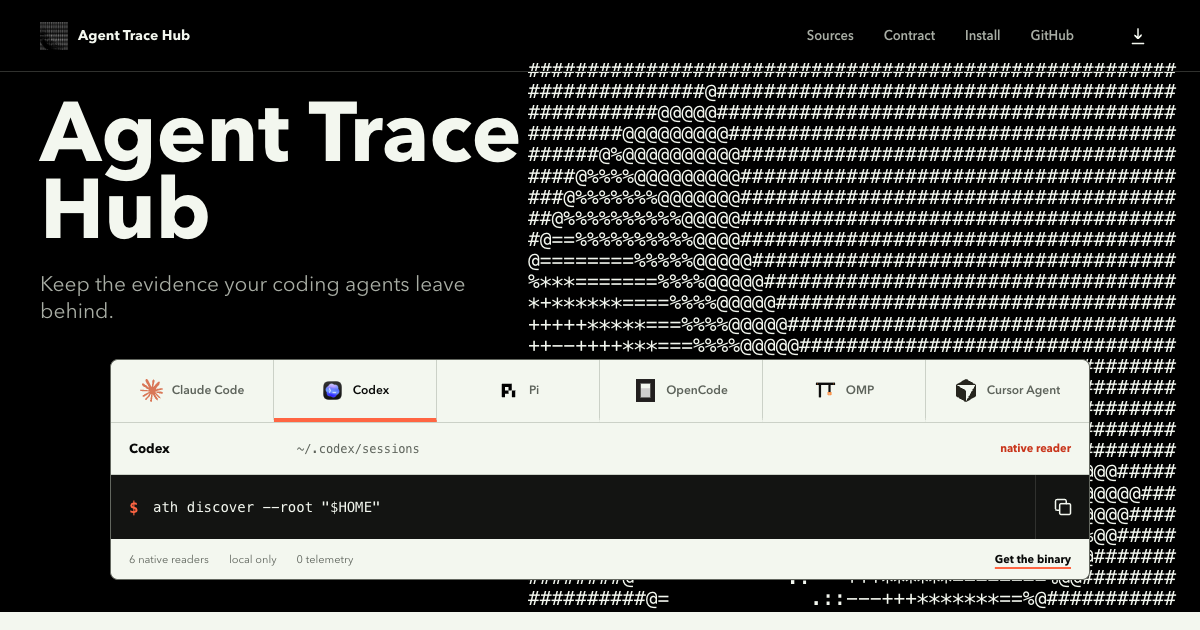
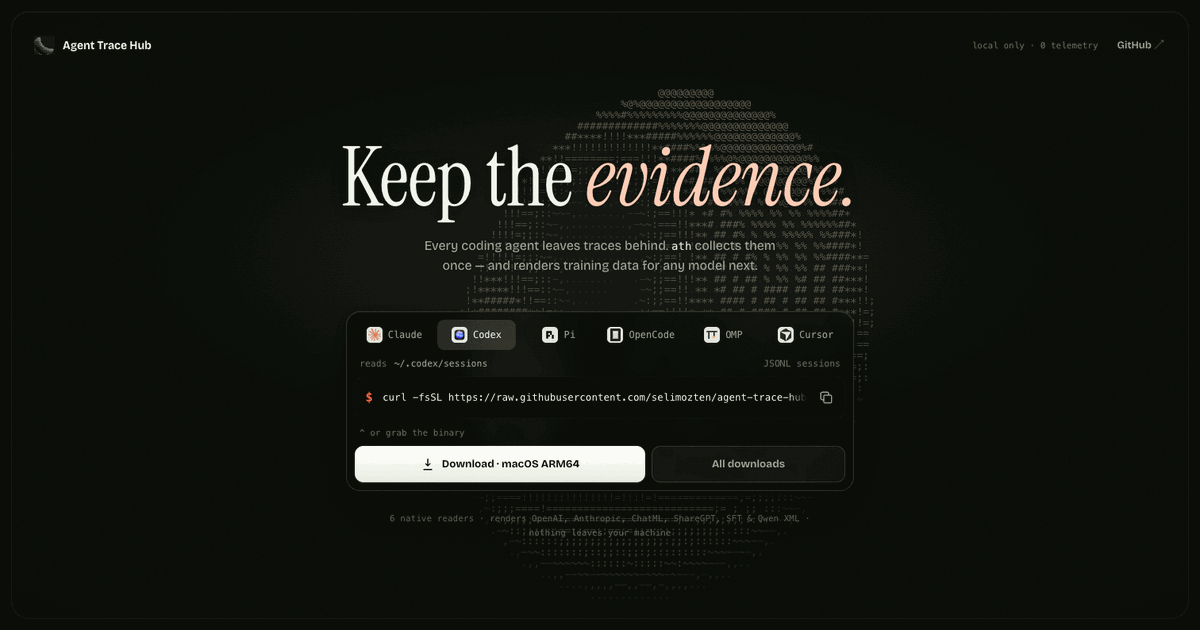
Align the agent tabs and refresh the brand assets
The source tabs become a six-column grid so every agent spans the
card edge to edge, with "Claude Code" shortened to fit its column
(full name kept for assistive tech).

The social card is recaptured from the live hero at 1200x630, and
the favicon is re-rendered from the orb art onto a dark rounded
tile so it reads on any tab bar; the old orb PNG is retired.

Claude-Session: https://claude.ai/code/session_01Pf822ZHoT31TSLVDinBH7p

diff --git a/site/styles.css b/site/styles.css
@@ -298,23 +298,31 @@ pre {
 }
 
 .source-tabs {
-  display: flex;
-  flex-wrap: wrap;
-  gap: 2px;
+  display: grid;
+  grid-template-columns: repeat(6, minmax(0, 1fr));
+  gap: 4px;
   padding-bottom: 8px;
 }
 
 .source-tabs button {
   display: inline-flex;
+  min-width: 0;
   min-height: 38px;
   align-items: center;
+  justify-content: center;
   gap: 7px;
-  padding: 6px 11px;
+  padding: 6px 4px;
   border-radius: 9px;
   color: var(--muted);
   font-family: var(--mono);
   font-size: 12px;
   transition: background-color 140ms ease, color 140ms ease, transform 120ms var(--ease-out);
+}
+
+.source-tabs button span {
+  overflow: hidden;
+  text-overflow: ellipsis;
+  white-space: nowrap;
 }
 
 .source-tabs button:active {
@@ -692,11 +700,6 @@ button:focus-visible {
 
   .source-tabs button span {
     display: none;
-  }
-
-  .source-tabs button {
-    flex: 1;
-    justify-content: center;
   }
 
   .cmd code {

diff --git a/site/index.html b/site/index.html
@@ -25,7 +25,8 @@
     <meta name="twitter:card" content="summary_large_image" />
     <link rel="canonical" href="https://selimozten.github.io/agent-trace-hub/" />
     <title>Agent Trace Hub</title>
-    <link rel="icon" href="assets/agent-trace-orb.png" type="image/png" />
+    <link rel="icon" href="assets/favicon.png" type="image/png" />
+    <link rel="apple-touch-icon" href="assets/favicon.png" />
     <link
       rel="preload"
       href="assets/fonts/instrument-serif-latin.woff2"
@@ -47,8 +48,8 @@
       type="font/woff2"
       crossorigin
     />
-    <link rel="stylesheet" href="styles.css?v=0.2.2" />
-    <script src="app.js?v=0.2.2" defer></script>
+    <link rel="stylesheet" href="styles.css?v=0.2.3" />
+    <script src="app.js?v=0.2.3" defer></script>
   </head>
   <body>
     <a class="skip-link" href="#main">Skip to content</a>
@@ -77,9 +78,9 @@
 
           <div class="console">
             <div class="source-tabs" role="tablist" aria-label="Coding-agent source">
-              <button id="tab-claude-code" type="button" role="tab" aria-selected="false" aria-controls="source-readout" data-source-agent="claude-code" tabindex="-1">
+              <button id="tab-claude-code" type="button" role="tab" aria-selected="false" aria-controls="source-readout" data-source-agent="claude-code" aria-label="Claude Code" tabindex="-1">
                 <img src="assets/agents/claude-code.svg" alt="" />
-                <span>Claude&nbsp;Code</span>
+                <span>Claude</span>
               </button>
               <button id="tab-codex" type="button" role="tab" aria-selected="true" aria-controls="source-readout" data-source-agent="codex" tabindex="0">
                 <img src="assets/agents/codex.png" alt="" />
@@ -123,7 +124,7 @@
               </button>
             </div>
 
-            <p class="or-line" aria-hidden="true">⌃ or grab the binary</p>
+            <p class="or-line" aria-hidden="true">^ or grab the binary</p>
 
             <div class="actions">
               <a class="button primary" id="recommended-download" href="https://github.com/selimozten/agent-trace-hub/releases/latest/download/agent-trace-hub-darwin-arm64.tar.gz">